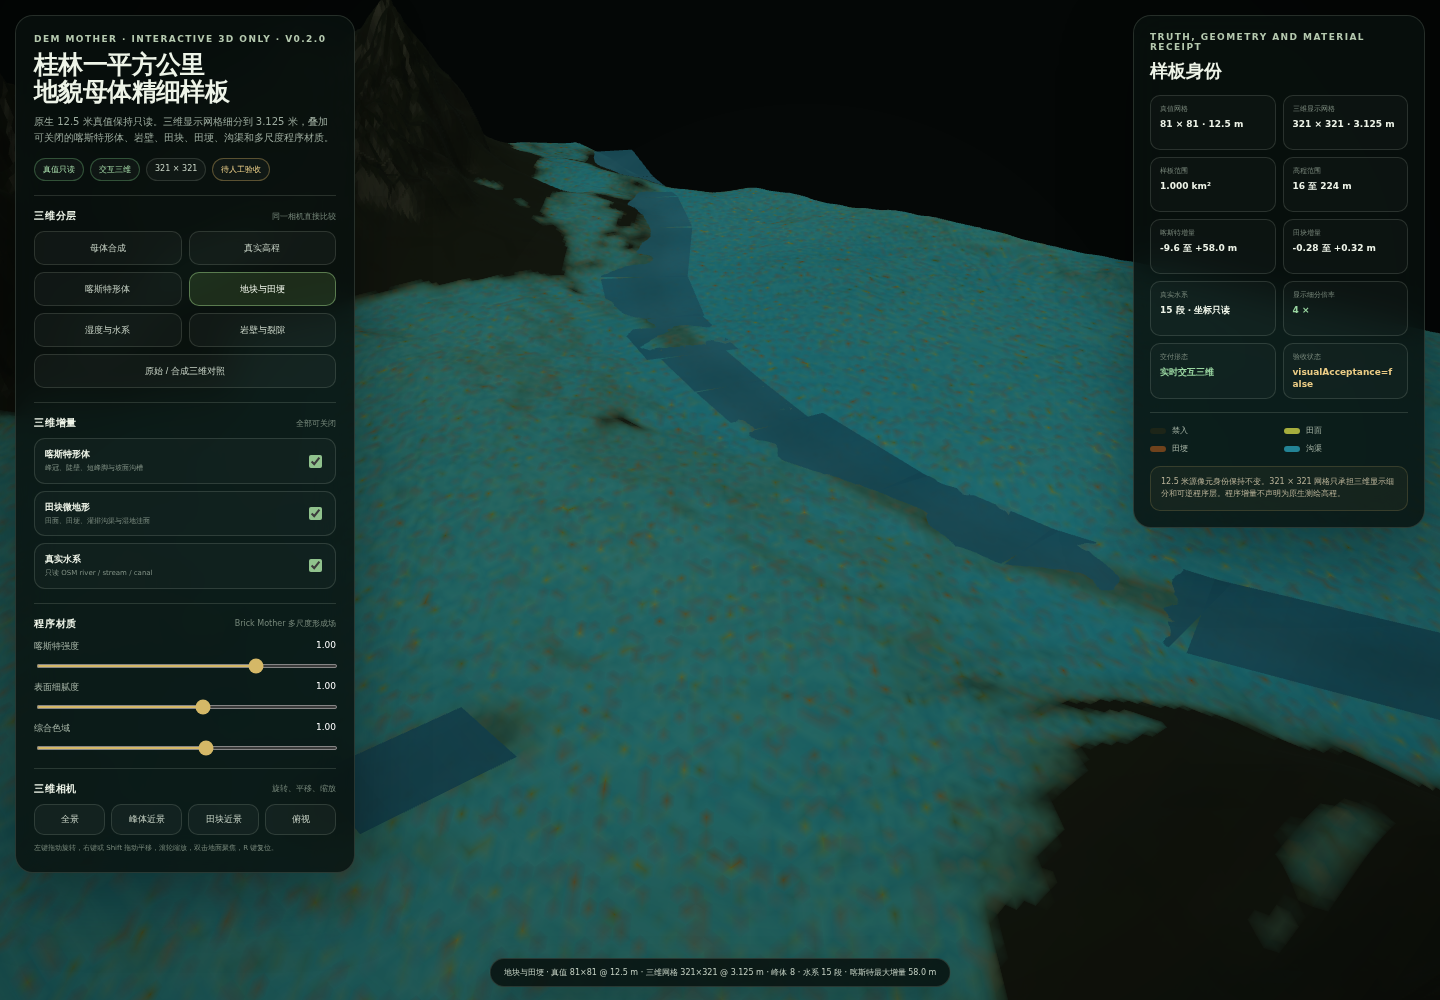
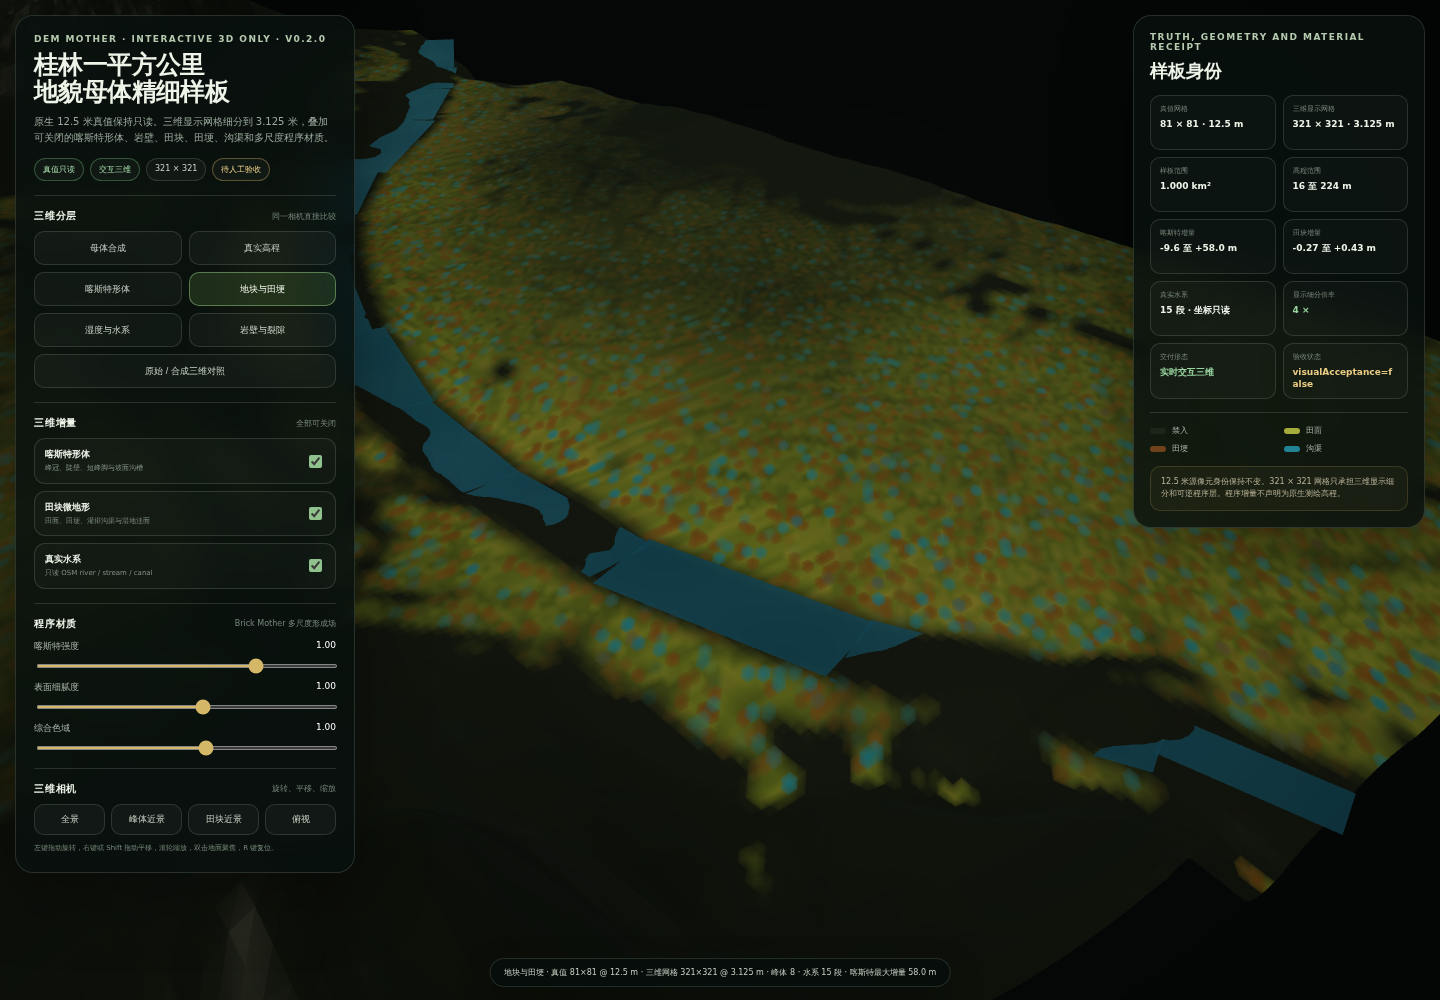
deploy: 171a32548f853523b0407d5563dae26a41ea2cfd

diff --git a/guilin-mother-sample-v002/app.js b/guilin-mother-sample-v002/app.js
@@ -525,6 +525,155 @@ setView=function(name){
 };
 
 loop=function(now){if(state.dirty)render(now);requestAnimationFrame(loop);};
+/* v0.2.2 field readability, water ribbon safety and close-view convergence. */
+const TERRAIN_FS_V22=TERRAIN_FS_V21
+  .replace("+(micro-.48)*.12+bund*.18-channel*.16","+(micro-.48)*.035+bund*.22-channel*.18")
+  .replace("+micro*.07","+micro*.025")
+  .replace("color=mix(color,vec3(.13,.085,.038),bund*.72)","color=mix(color,vec3(.115,.070,.028),bund*.86)");
+
+setupWebGL=function(){
+  const gl=canvas.getContext('webgl2',{antialias:true,alpha:false,depth:true,powerPreference:'high-performance',preserveDrawingBuffer:true});
+  assert(gl,'当前浏览器未提供 WebGL2');
+  state.gl=gl;
+  state.programs={terrain:createProgram(gl,TERRAIN_VS,TERRAIN_FS_V22),water:createProgram(gl,WATER_VS,WATER_FS),skirt:createProgram(gl,SKIRT_VS,SKIRT_FS)};
+  state.uniforms={
+    terrain:{viewProjection:gl.getUniformLocation(state.programs.terrain,'uViewProjection'),karst:gl.getUniformLocation(state.programs.terrain,'uKarstStrength'),field:gl.getUniformLocation(state.programs.terrain,'uFieldStrength'),mode:gl.getUniformLocation(state.programs.terrain,'uMode'),minimum:gl.getUniformLocation(state.programs.terrain,'uMinElevation'),maximum:gl.getUniformLocation(state.programs.terrain,'uMaxElevation'),detail:gl.getUniformLocation(state.programs.terrain,'uDetailStrength'),color:gl.getUniformLocation(state.programs.terrain,'uColorStrength'),eye:gl.getUniformLocation(state.programs.terrain,'uEye')},
+    water:{viewProjection:gl.getUniformLocation(state.programs.water,'uViewProjection'),eye:gl.getUniformLocation(state.programs.water,'uEye'),time:gl.getUniformLocation(state.programs.water,'uTime')},
+    skirt:{viewProjection:gl.getUniformLocation(state.programs.skirt,'uViewProjection')}
+  };
+  gl.enable(gl.DEPTH_TEST);gl.depthFunc(gl.LEQUAL);gl.enable(gl.CULL_FACE);gl.cullFace(gl.BACK);gl.frontFace(gl.CCW);gl.clearColor(.018,.032,.028,1);
+};
+
+parcelGrammar=function(easting,northing){
+  const warpX=fbm2(easting*.0019,northing*.0019,SEEDS.field+31,4)*27;
+  const warpZ=fbm2(easting*.0019+7.4,northing*.0019-5.1,SEEDS.field+73,4)*27;
+  const angle=.29+fbm2(easting*.00062,northing*.00062,SEEDS.field+91,3)*.20;
+  const ca=Math.cos(angle),sa=Math.sin(angle);
+  const rx=(easting+warpX)*ca+(northing+warpZ)*sa;
+  const rz=-(easting+warpX)*sa+(northing+warpZ)*ca;
+  const cellX=88,cellZ=66,gx=Math.floor(rx/cellX),gz=Math.floor(rz/cellZ);
+  let first=Infinity,second=Infinity,nearestX=gx,nearestZ=gz;
+  for(let oz=-1;oz<=1;oz++)for(let ox=-1;ox<=1;ox++){
+    const cx=gx+ox,cz=gz+oz;
+    const px=(cx+.13+hash2(cx,cz,SEEDS.field+149)*.74)*cellX;
+    const pz=(cz+.13+hash2(cx,cz,SEEDS.field+193)*.74)*cellZ;
+    const distance=Math.hypot(rx-px,rz-pz);
+    if(distance<first){second=first;first=distance;nearestX=cx;nearestZ=cz;}else if(distance<second)second=distance;
+  }
+  const boundary=1-smoothstep(1.1,6.2,second-first);
+  const fieldSeed=hash2(nearestX,nearestZ,SEEDS.field+277);
+  const lineA=Math.abs(Math.sin((rx+fieldSeed*117)*.055));
+  const lineB=Math.abs(Math.sin((rz-fieldSeed*89)*.069));
+  const rowA=1-smoothstep(.00,.075,lineA);
+  const rowB=1-smoothstep(.00,.064,lineB);
+  const channel=Math.max(rowA,rowB*.62);
+  return{boundary,fieldSeed,channel};
+};
+
+const deriveTerrainFieldsV21=deriveTerrainFields;
+deriveTerrainFields=function(dense,segments){
+  const fields=deriveTerrainFieldsV21(dense,segments);
+  const elevationRange=Math.max(1,state.maximum-state.minimum);
+  let fieldMinimum=Infinity,fieldMaximum=-Infinity,paddySum=0,bundSum=0,channelSum=0;
+  for(let row=0;row<RENDER_GRID;row++){
+    for(let column=0;column<RENDER_GRID;column++){
+      const index=row*RENDER_GRID+column;
+      const truth=dense[index];
+      const x=column*RENDER_SPACING-SIDE_M*.5,z=row*RENDER_SPACING-SIDE_M*.5;
+      const easting=CENTER_E+x,northing=CENTER_N-z;
+      const slopeDegrees=fields.slope[index]*62;
+      const elev=(truth-state.minimum)/elevationRange;
+      const lowland=1-smoothstep(.10,.61,elev);
+      const flat=1-smoothstep(3.2,14.8,slopeDegrees);
+      const waterDistance=nearestWaterDistance(x,z,segments);
+      const waterCore=1-smoothstep(7,26,waterDistance);
+      const patch=fbm2(easting*.0022,northing*.0022,SEEDS.field+401,4)*.5+.5;
+      const patchGate=.42+.58*smoothstep(.20,.78,patch);
+      const base=lowland*flat*(.48+.52*fields.wet[index])*patchGate*(1-waterCore*.94)*(1-fields.cliff[index]*.94)*(1-fields.talus[index]*.56);
+      const paddyValue=smoothstep(.13,.58,base);
+      const parcel=parcelGrammar(easting,northing);
+      const bundValue=paddyValue*Math.pow(parcel.boundary,.58);
+      const channelValue=paddyValue*parcel.channel*(1-parcel.boundary*.50);
+      const terraceStep=.25+parcel.fieldSeed*.14;
+      const terraceTarget=Math.round(truth/terraceStep)*terraceStep;
+      const flatten=clamp((terraceTarget-truth)*.43,-.14,.14);
+      const fieldValue=clamp(paddyValue*flatten+bundValue*(.38+parcel.fieldSeed*.21)-channelValue*(.25+parcel.fieldSeed*.15),-.40,.62);
+      fields.paddy[index]=paddyValue;
+      fields.bund[index]=bundValue;
+      fields.channel[index]=channelValue;
+      fields.fieldDelta[index]=fieldValue;
+      fields.unitSeed[index]=parcel.fieldSeed;
+      fields.flow[index]=clamp(fields.flow[index]+channelValue*.52,0,1);
+      fields.terrace[index]=paddyValue*flat;
+      fields.enhanced[index]=truth+fields.karstDelta[index]+fieldValue;
+      fieldMinimum=Math.min(fieldMinimum,fieldValue);fieldMaximum=Math.max(fieldMaximum,fieldValue);
+      paddySum+=paddyValue;bundSum+=bundValue;channelSum+=channelValue;
+    }
+  }
+  fields.enhancedNormals=buildNormalArray(fields.enhanced);
+  state.fieldRange=[fieldMinimum,fieldMaximum];
+  state.fieldStats={paddyFraction:paddySum/fields.paddy.length,bundMean:bundSum/fields.bund.length,channelMean:channelSum/fields.channel.length};
+  return fields;
+};
+
+buildWaterMesh=function(){
+  const gl=state.gl,vertices=[],indices=[];
+  const add=(x,y,z,c)=>{vertices.push(x,y,z,c);return vertices.length/4-1;};
+  for(const segment of state.segments){
+    const dx=segment.x1-segment.x0,dz=segment.z1-segment.z0,length=Math.hypot(dx,dz);
+    if(length<3.5)continue;
+    const nx=-dz/length,nz=dx/length;
+    const base=segment.classValue===0?5.2:(segment.classValue===1?2.0:1.2);
+    const requestedHalf=Math.max(base*.65,segment.sourceWidth*.50);
+    const halfWidth=clamp(Math.min(requestedHalf,length*.18,26),.65,26);
+    if(length<18&&halfWidth>length*.22)continue;
+    const y0=segment.y0-state.minimum+.38,y1=segment.y1-state.minimum+.38;
+    const a=add(segment.x0+nx*halfWidth,y0,segment.z0+nz*halfWidth,segment.classValue);
+    const b=add(segment.x0-nx*halfWidth,y0,segment.z0-nz*halfWidth,segment.classValue);
+    const c=add(segment.x1+nx*halfWidth,y1,segment.z1+nz*halfWidth,segment.classValue);
+    const d=add(segment.x1-nx*halfWidth,y1,segment.z1-nz*halfWidth,segment.classValue);
+    indices.push(a,b,c,c,b,d);
+  }
+  const vao=gl.createVertexArray(),vertexBuffer=gl.createBuffer(),indexBuffer=gl.createBuffer();
+  gl.bindVertexArray(vao);gl.bindBuffer(gl.ARRAY_BUFFER,vertexBuffer);gl.bufferData(gl.ARRAY_BUFFER,new Float32Array(vertices),gl.STATIC_DRAW);
+  gl.enableVertexAttribArray(0);gl.vertexAttribPointer(0,3,gl.FLOAT,false,16,0);
+  gl.enableVertexAttribArray(1);gl.vertexAttribPointer(1,1,gl.FLOAT,false,16,12);
+  gl.bindBuffer(gl.ELEMENT_ARRAY_BUFFER,indexBuffer);gl.bufferData(gl.ELEMENT_ARRAY_BUFFER,new Uint32Array(indices),gl.STATIC_DRAW);
+  gl.bindVertexArray(null);
+  state.water={vao,vertexBuffer,indexBuffer,indexCount:indices.length};
+};
+
+function bestFieldPoint(){
+  let best={score:-Infinity,x:0,z:0};
+  for(let row=8;row<RENDER_GRID-8;row+=3){
+    for(let column=8;column<RENDER_GRID-8;column+=3){
+      const index=row*RENDER_GRID+column;
+      const x=column*RENDER_SPACING-SIDE_M*.5,z=row*RENDER_SPACING-SIDE_M*.5;
+      const waterDistance=nearestWaterDistance(x,z,state.segments);
+      const desiredWater=1-Math.min(1,Math.abs(waterDistance-82)/110);
+      const centerPenalty=Math.hypot(x,z)/900;
+      const score=state.fields.paddy[index]*1.30+state.fields.bund[index]*.28+desiredWater*.22-state.fields.channel[index]*.25-centerPenalty*.14;
+      if(score>best.score)best={score,x,z};
+    }
+  }
+  return[best.x,best.z];
+}
+
+setView=function(name){
+  const relief=state.maximum-state.minimum;
+  if(name==='top'){
+    state.camera.target=[0,relief*.18,0];state.camera.yaw=-.05;state.camera.pitch=1.485;state.camera.distance=1320;
+  }else if(name==='karst'){
+    const peak=highestPeak();const localHeight=denseTruthAtWorld(peak.x,peak.z)-state.minimum;
+    state.camera.target=[peak.x,localHeight+peak.amplitude*.46,peak.z];state.camera.yaw=-1.00;state.camera.pitch=.38;state.camera.distance=540;
+  }else if(name==='field'){
+    const c=bestFieldPoint();const localHeight=denseTruthAtWorld(c[0],c[1])-state.minimum;
+    state.camera.target=[c[0],localHeight+4.5,c[1]];state.camera.yaw=-.70;state.camera.pitch=.55;state.camera.distance=430;
+  }else{
+    state.camera.target=[0,relief*.24,0];state.camera.yaw=-.78;state.camera.pitch=.55;state.camera.distance=1450;
+  }
+  state.dirty=true;
+};
 const MODE_NAMES=['母体合成','真实高程','喀斯特形体','地块与田埂','湿度与水系','岩壁与裂隙','原始 / 合成三维对照'];
 const LEGENDS={0:[['#9a9d47','田块'],['#88714a','泥土'],['#aaa797','石灰岩'],['#2b8090','水系']],1:[['#29482d','低地'],['#6f7042','坡地'],['#aaa99b','高地']],2:[['#17221c','低响应'],['#dc9f2d','喀斯特'],['#f3dc79','正增量'],['#397cb2','切削区']],3:[['#1d2518','禁入'],['#a6ad3d','田面'],['#6f421c','田埂'],['#238395','沟渠']],4:[['#36271a','偏干'],['#35685e','湿润'],['#1f91a0','高湿'],['#216896','真实水系']],5:[['#1d2b1d','覆盖面'],['#73746d','裸岩'],['#332219','裂隙'],['#c1ad72','层理']],6:[['#69725b','左侧真值'],['#a0a34d','右侧母体'],['#2b8090','共享水系'] ]};
 function updateLegend(){const root=$('legend');root.innerHTML='';for(const[color,label]of LEGENDS[state.mode])root.insertAdjacentHTML('beforeend',`<div><i style="background:${color}"></i>${label}</div>`);}
